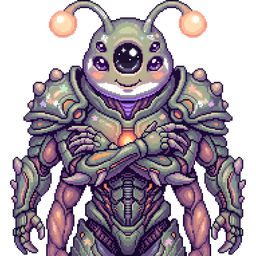
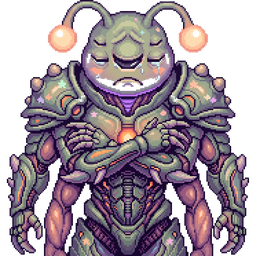
Add Takahide's sad alien commander face; credit in README

diff --git a/README.md b/README.md
@@ -54,7 +54,7 @@ PR を開くと `.github/workflows/preview.yml` が `https://kyokensugar.github.
 
 ## 画像・音楽・効果音
 
-- オープニング画像(`public/images/opening.webp`)と艦長の顔アイコン3種(`public/images/captain-*.png`)は Takahide Sato 提供のオリジナル。
+- オープニング画像(`public/images/opening.webp`)と艦長・エイリアン司令の顔アイコン各3種(`public/images/captain-*.png`, `alien-*.png`)は Takahide Sato 提供のオリジナル。
 
 - BGM(`public/music/`)は Takahide Sato によるオリジナル楽曲です。
   - `opening.mp3`: "Beyond the Event Horizon"(オープニング/配置/結果画面)
